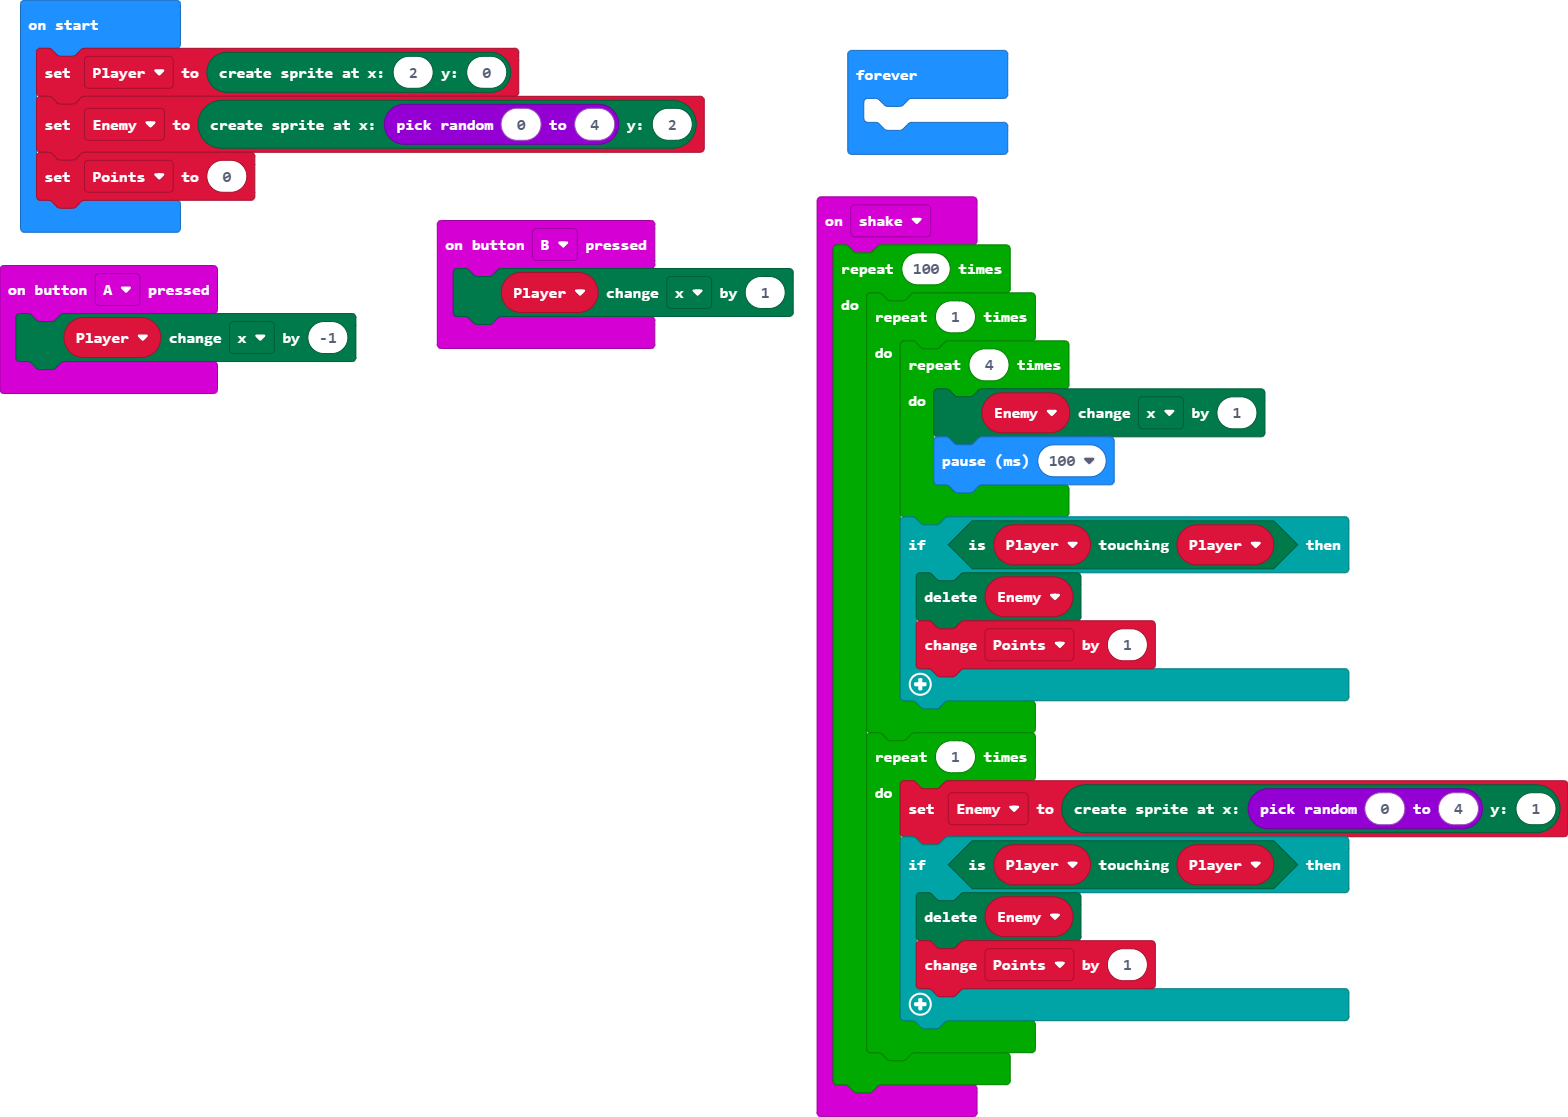
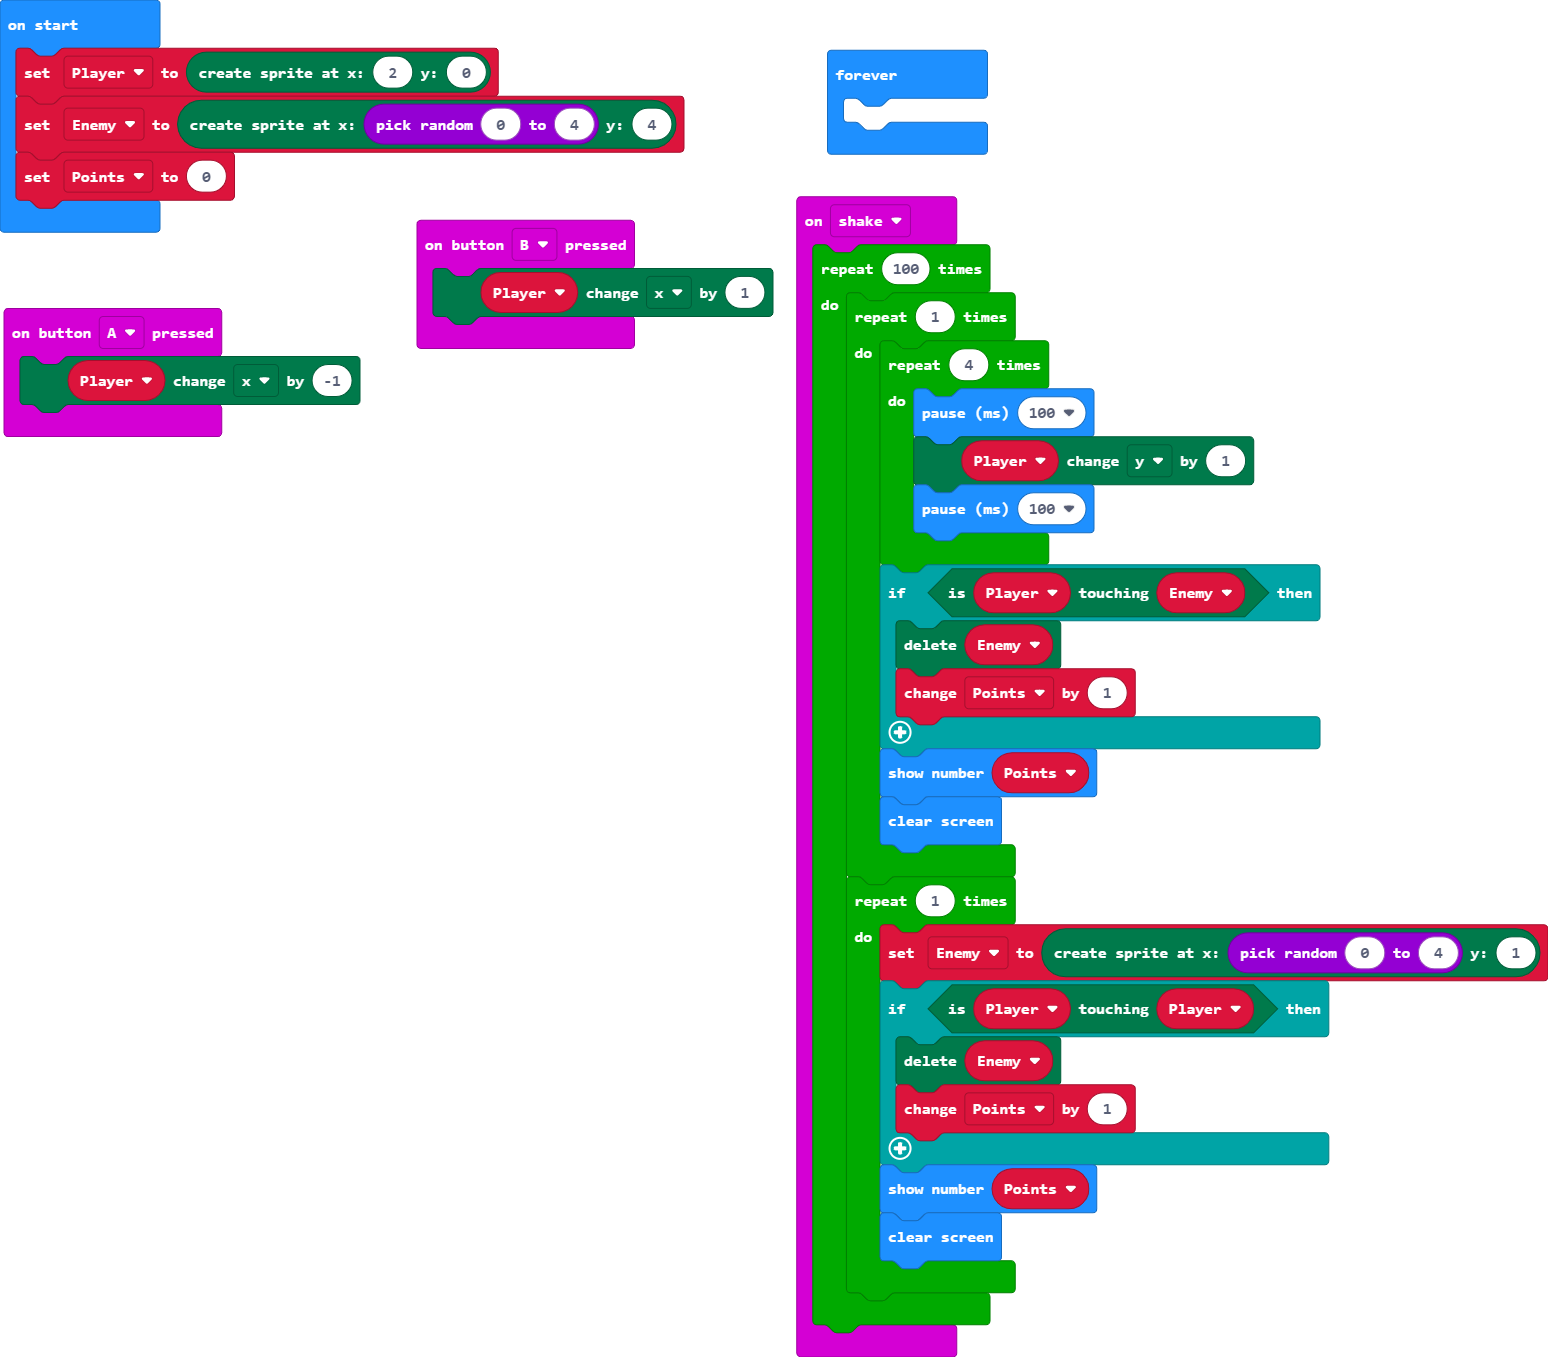
Update main.blocks, main.ts

Changed region(s): [[0.0, 0.0, 1.0, 1.0]]

diff --git a/main.ts b/main.ts
@@ -8,13 +8,16 @@ input.onGesture(Gesture.Shake, function () {
     for (let index = 0; index < 100; index++) {
         for (let index = 0; index < 1; index++) {
             for (let index = 0; index < 4; index++) {
-                Enemy.change(LedSpriteProperty.X, 1)
+                basic.pause(100)
+                Player.change(LedSpriteProperty.Y, 1)
                 basic.pause(100)
             }
-            if (Player.isTouching(Player)) {
+            if (Player.isTouching(Enemy)) {
                 Enemy.delete()
                 Points += 1
             }
+            basic.showNumber(Points)
+            basic.clearScreen()
         }
         for (let index = 0; index < 1; index++) {
             Enemy = game.createSprite(randint(0, 4), 1)
@@ -22,14 +25,17 @@ input.onGesture(Gesture.Shake, function () {
                 Enemy.delete()
                 Points += 1
             }
+            basic.showNumber(Points)
+            basic.clearScreen()
         }
     }
 })
+let Points = 0
 let Enemy: game.LedSprite = null
 let Player: game.LedSprite = null
 Player = game.createSprite(2, 0)
-Enemy = game.createSprite(randint(0, 4), 2)
-let Points = 0
+Enemy = game.createSprite(randint(0, 4), 4)
+Points = 0
 basic.forever(function () {
 	
 })
